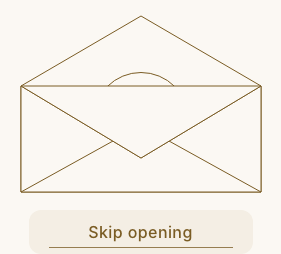
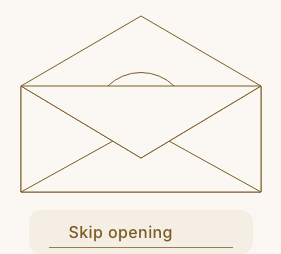
TICKET-039: stabilize envelope control text during font loading

Changed region(s): [[0.2278, 0.8819, 0.6833, 0.9646]]

diff --git a/e2e/envelope.spec.ts b/e2e/envelope.spec.ts
@@ -8,10 +8,29 @@ for (const theme of listThemes()) {
     await page.emulateMedia({ reducedMotion: "no-preference" });
     await page.addInitScript(() => {
       let shift = 0;
+      const sources: unknown[] = [];
       new PerformanceObserver((list) => {
         for (const entry of list.getEntries()) {
           if ("hadRecentInput" in entry && !entry.hadRecentInput && "value" in entry) {
             shift += Number(entry.value);
+            const layout = entry as PerformanceEntry & {
+              sources?: {
+                node?: Node;
+                previousRect: DOMRectReadOnly;
+                currentRect: DOMRectReadOnly;
+              }[];
+            };
+            sources.push(
+              ...(layout.sources ?? []).map((source) => ({
+                element: (source.node instanceof Element
+                  ? source.node
+                  : source.node?.parentElement
+                )?.outerHTML.slice(0, 300),
+                previous: source.previousRect.toJSON(),
+                current: source.currentRect.toJSON(),
+              })),
+            );
+            document.documentElement.dataset.envelopeShiftSources = JSON.stringify(sources);
             document.documentElement.dataset.envelopeCls = String(shift);
           }
         }
@@ -33,7 +52,11 @@ for (const theme of listThemes()) {
           requestAnimationFrame(() => requestAnimationFrame(() => resolve())),
         ),
     );
-    expect((await page.locator("html").getAttribute("data-envelope-cls")) ?? "0").toBe("0");
+    expect(
+      (await page.locator("html").getAttribute("data-envelope-cls")) ?? "0",
+      (await page.locator("html").getAttribute("data-envelope-shift-sources")) ??
+        "No shift sources",
+    ).toBe("0");
     await replay.hover();
     await expect(replay).toHaveCSS("opacity", "1");
     expect(await scanA11y(page)).toEqual([]);
@@ -136,4 +159,26 @@ test("@smoke invitation remains usable without JavaScript", async ({ browser, ba
   await expect(page.getByRole("link", { name: "Try RSVP preview" })).toBeInViewport();
   await expect(page.getByRole("button", { name: /opening/ })).toHaveCount(0);
   await context.close();
+});
+
+test("@smoke envelope control text keeps its origin through a font swap", async ({ page }) => {
+  await page.setViewportSize({ width: 375, height: 900 });
+  await page.emulateMedia({ reducedMotion: "no-preference" });
+  await page.goto("/dev/invitation/letter?theme=blush-sage");
+  const control = page.getByRole("button", { name: "Replay opening" });
+  await expect(control).toBeVisible();
+  await page.evaluate(() => document.fonts.ready);
+  const positions = await control.evaluate((button) => {
+    const text = document.createTreeWalker(button, NodeFilter.SHOW_TEXT).nextNode();
+    if (!text) throw new Error("Missing control label");
+    const range = document.createRange();
+    range.selectNodeContents(text);
+    const original = button.style.fontFamily;
+    const x = range.getBoundingClientRect().x;
+    button.style.fontFamily = "monospace";
+    const fallbackX = range.getBoundingClientRect().x;
+    button.style.fontFamily = original;
+    return { x, fallbackX };
+  });
+  expect(positions.fallbackX).toBe(positions.x);
 });

diff --git a/src/modules/invitations/components/envelope.css b/src/modules/invitations/components/envelope.css
@@ -49,13 +49,20 @@
   animation: invitation-envelope-emerge var(--motion-duration-signature) var(--motion-easing) both;
 }
 .invitation-envelope-controlSpace {
+  display: flex;
+  justify-content: center;
+  align-items: flex-start;
   height: 2.75rem;
-  text-align: center;
 }
 .invitation-envelope-control {
   position: relative;
   width: min(100%, 14rem);
   transition: none;
+}
+.invitation-envelope-controlLabel {
+  display: block;
+  width: 9rem;
+  text-align: left;
 }
 .invitation-envelope-control::after {
   content: "";

diff --git a/src/modules/invitations/components/envelope.tsx b/src/modules/invitations/components/envelope.tsx
@@ -82,7 +82,9 @@ export function Envelope({
             className="invitation-envelope-control"
             onClick={() => setOpening(!opening)}
           >
-            {opening ? "Skip opening" : "Replay opening"}
+            <span className="invitation-envelope-controlLabel">
+              {opening ? "Skip opening" : "Replay opening"}
+            </span>
           </Button>
         )}
       </div>

diff --git a/docs/reviews/TICKET-039/README.md b/docs/reviews/TICKET-039/README.md
@@ -1,5 +1,7 @@
 # TICKET-039 UI review
 
+Current follow-up: final CI found a Blush & Sage font-swap shift. The fixed label origin now passes all36 envelope tests and fresh12-layout CLS checks. All24 refreshed preview/motion images inspected. Full verification and final-head CI for this correction remain pending; earlier full-suite totals below refer to the prior source.
+
 2026-10-31. Invitation envelope on the personal invitation and /dev/invitation/letter. Base develop e381c810bc19404d7ded59a6155fc8977c1f474d; final source includes the fixed-width control and stable monogram glyph slots.
 
 | Check                | Evidence and status                                                                                                                                                                                                                                                                                                                                                                                                                                                                                                                                                                                                                |
@@ -12,7 +14,7 @@
 | Keyboard             | Focused tests verify RSVP anchor remains usable during opening and skip/replay retains focus. Browser storage denial also passes.                                                                                                                                                                                                                                                                                                                                                                                                                                                                                                  |
 | Contrast             | Hover defect found and fixed: fading the complete button reduced ivory contrast to about3.56:1. Text now remains opaque; only underline opacity transitions. All four hover axe checks passed after correction. Final focused suite passes all42 tests.                                                                                                                                                                                                                                                                                                                                                                            |
 | Load/images          | PASS: browser-review.json records CLS0 in all twelve production layouts; three real-invitation Lighthouse runs alsoCLS0. No photo added. Stable control width and monogram glyph slots fix measured shifts.                                                                                                                                                                                                                                                                                                                                                                                                                        |
-| Performance          | PASS on a synthetic real personal invitation: Lighthouse13.6.0 mobile99/99/100 Performance,100 Accessibility throughout; three serial runs without other verification load. See performance.json; raw results retained in artifacts/TICKET-039/idle-lighthouse-*.json.                                                                                                                                                                                                                                                                                                                                                             |
+| Performance          | PASS on a synthetic real personal invitation: Lighthouse13.6.0 mobile99/100/98 Performance,100 Accessibility throughout; three serial runs without other verification load. See performance.json; raw results retained in artifacts/TICKET-039/idle-lighthouse-*.json.                                                                                                                                                                                                                                                                                                                                                             |
 | Copy                 | Approved invitation text unchanged. New provisional control labels: Skip opening / Replay opening.                                                                                                                                                                                                                                                                                                                                                                                                                                                                                                                                 |
 | Shared components    | Existing Button and Monogram reused. Monogram adds span wrappers for the two initials; fixed glyph positioning is scoped to the envelope. All twelve /dev/theme decoration captures inspected without visual regression.                                                                                                                                                                                                                                                                                                                                                                                                           |
 | Sharing/devices      | NOT VERIFIED: physical iOS/Android WhatsApp motion and controls. Existing release-blocking201 covers guest device QA; owner approved proceeding to review on 2026-10-31 with this release gate retained; no device result claimed.                                                                                                                                                                                                                                                                                                                                                                                                 |
@@ -22,4 +24,4 @@
 
 Findings resolved: label hover contrast, label-change button shift, Playfair monogram font-swap shift. Still required: final-head CI. Serial full gate passes. The owner approved the physical-device deferral to release-blocking TICKET-201. All96 screenshots have been inspected. This is not release approval.
 
-Review: APPROVE for ticket review under the explicit device-QA exception. Physical iOS/Android WhatsApp testing remains mandatory in release-blocking TICKET-201; this is not guest-release approval.
+Review: CHANGES REQUESTED until the corrected source passes full verification and final-head CI; the explicit device-QA exception remains valid. Physical iOS/Android WhatsApp testing remains mandatory in release-blocking TICKET-201; this is not guest-release approval.

diff --git a/docs/handoffs/TICKET-039.md b/docs/handoffs/TICKET-039.md
@@ -55,3 +55,13 @@ All functional criteria and96 screenshots remain reviewed. Owner-approved physic
 Required t:pr verification on4571ba5cfcb3a764ea6b0c9b2b56e6deb96ee3bf passed:475 unit tests/22 skips,production build,559 browser tests/135 skips in10.0minutes. Log: artifacts/TICKET-039/pr-verification.log. The command then failed only because harness.owner was unset. Recovered through t:move in_review --owner divine --agent codex --push using the exact verified SHA; ledger and pushed metadata commit5cdccc7 confirm in_review. No tests bypassed or weakened.
 
 TICKET-052 stack stop49127 completed with backup=true. All96 screenshots reviewed; physical-device exception explicitly approved and release gate201 retained. PR59 targets develop. Next: final documentation commit/push, mark PR ready, require final-head CI and mergeability, then authorized merge/CLI done. Do not treat superseded/cancelled CI as a pass. Next ready ticket047 requires privacy-safe OG metadata and an explicitly tracked missing couple-photo/device dependency.
+
+## 2026-10-31 — final Linux CI exposed font-swap shift
+
+CI41222068977 failed on85be1db:558 browser passes/135 skips,Blush & Sage desktop envelope CLS0.0002352246913580247 on retry. No merge occurred. CLI moved039 back to in_progress (f011775),PR59 returned to draft. A controlled font-substitution regression reproduced control text moving from x125.734375 to117.484375 (8.25px). Fixed by a fixed-width, left-aligned label slot and flex layout for its reserved control space. Added layout-shift source diagnostics to the existing strict-zero test. No tolerance relaxed.
+
+Production build passed; all36 envelope tests pass in33.1seconds,including the new font-swap regression. Updated screenshot/CLS review50768 and owned production server95880 are running on31411. Refresh and inspect affected24 preview/motion images; run serial performance with existing isolated fixture guard; stop owned server before full verification. Source-level CI must prove the reported Linux failure resolved; local pass alone is not enough.
+
+User approved a regular Unsplash couple photo for047. Candidate inspected: Lauren Mitchell,https://unsplash.com/photos/a-bride-and-groom-holding-hands-and-smiling-glouLzM1PMg ; sourcehttps://images.unsplash.com/photo-1694709283346-bbc66a18e731 . Downloaded candidate in artifacts/TICKET-039/next-ticket-photo-candidate.jpg (also /private/tmp/wedding-unsplash-couple.jpg). Record attribution/placeholder status in047,not a claim that the photo depicts the actual couple.
+
+Font-origin follow-up evidence: all12 refreshed full-page screenshots and12 motion frames inspected. Production review50768 passed CLS0/overflow/44px targets in all12 layouts plus storage denial/live reduced-motion checks. Performance53701 completed:99/100/98 Performance,100 Accessibility,CLS0 across three serial real-invitation runs; synthetic fixture removed by finally. Owned server95880 stopped before full verification. Next command after commit/push: pnpm t:pr TICKET-039 --owner divine --agent codex (explicit identity avoids the previous post-verification failure).

diff --git a/docs/plans/TICKET-039-pr.md b/docs/plans/TICKET-039-pr.md
@@ -23,6 +23,8 @@ The personal invitation now opens with a skippable 600ms envelope reveal. The le
 
 # Verification
 
+Current follow-up: final Linux CI85be1db found nonzero Blush & Sage CLS. The control-label font-swap correction passes a new regression and all36 envelope tests locally; fresh screenshots show CLS0 across12 layouts; refreshed Lighthouse99/100/98 Performance,100 Accessibility,CLS0 throughout. Full verification and final-head CI are pending again. Earlier passing totals below are historical, not approval of this new source.
+
 - 15 focused unit tests pass; 42 focused envelope/shared-decoration browser tests pass across mobile and desktop.
 - Saved RSVP: three live tests plus one configured-details/no-JavaScript test pass.
 - All 12 theme/width RSVP reviews pass, including initial, yes, no, error and closed states; axe, overflow and 44px targets checked for each state.
@@ -50,7 +52,7 @@ Reviewed evidence: docs/reviews/TICKET-039 contains 12 full preview layouts,12 m
 - PASS keyboard: invitation and RSVP remain usable during animation; focus retained.
 - PASS contrast: all-theme axe including hover. Text stays opaque; only underline fades.
 - PASS load:CLS0 across12 production layouts and three Lighthouse runs; no photo added.
-- PASS performance: mobile Lighthouse99/99/100 Performance and100 Accessibility in all three serial real-invitation runs.
+- PASS performance: mobile Lighthouse99/100/98 Performance and100 Accessibility in all three serial real-invitation runs.
 - PASS copy: approved invitation copy retained; Skip opening / Replay opening are concise controls.
 - PASS shared components: Button/Monogram reused;12 shared showcase captures reviewed.
 - NOT VERIFIED sharing/devices: physical iOS/Android WhatsApp checks remain release-gated; owner explicitly approved proceeding to review while retaining this release gate on 2026-10-31.
